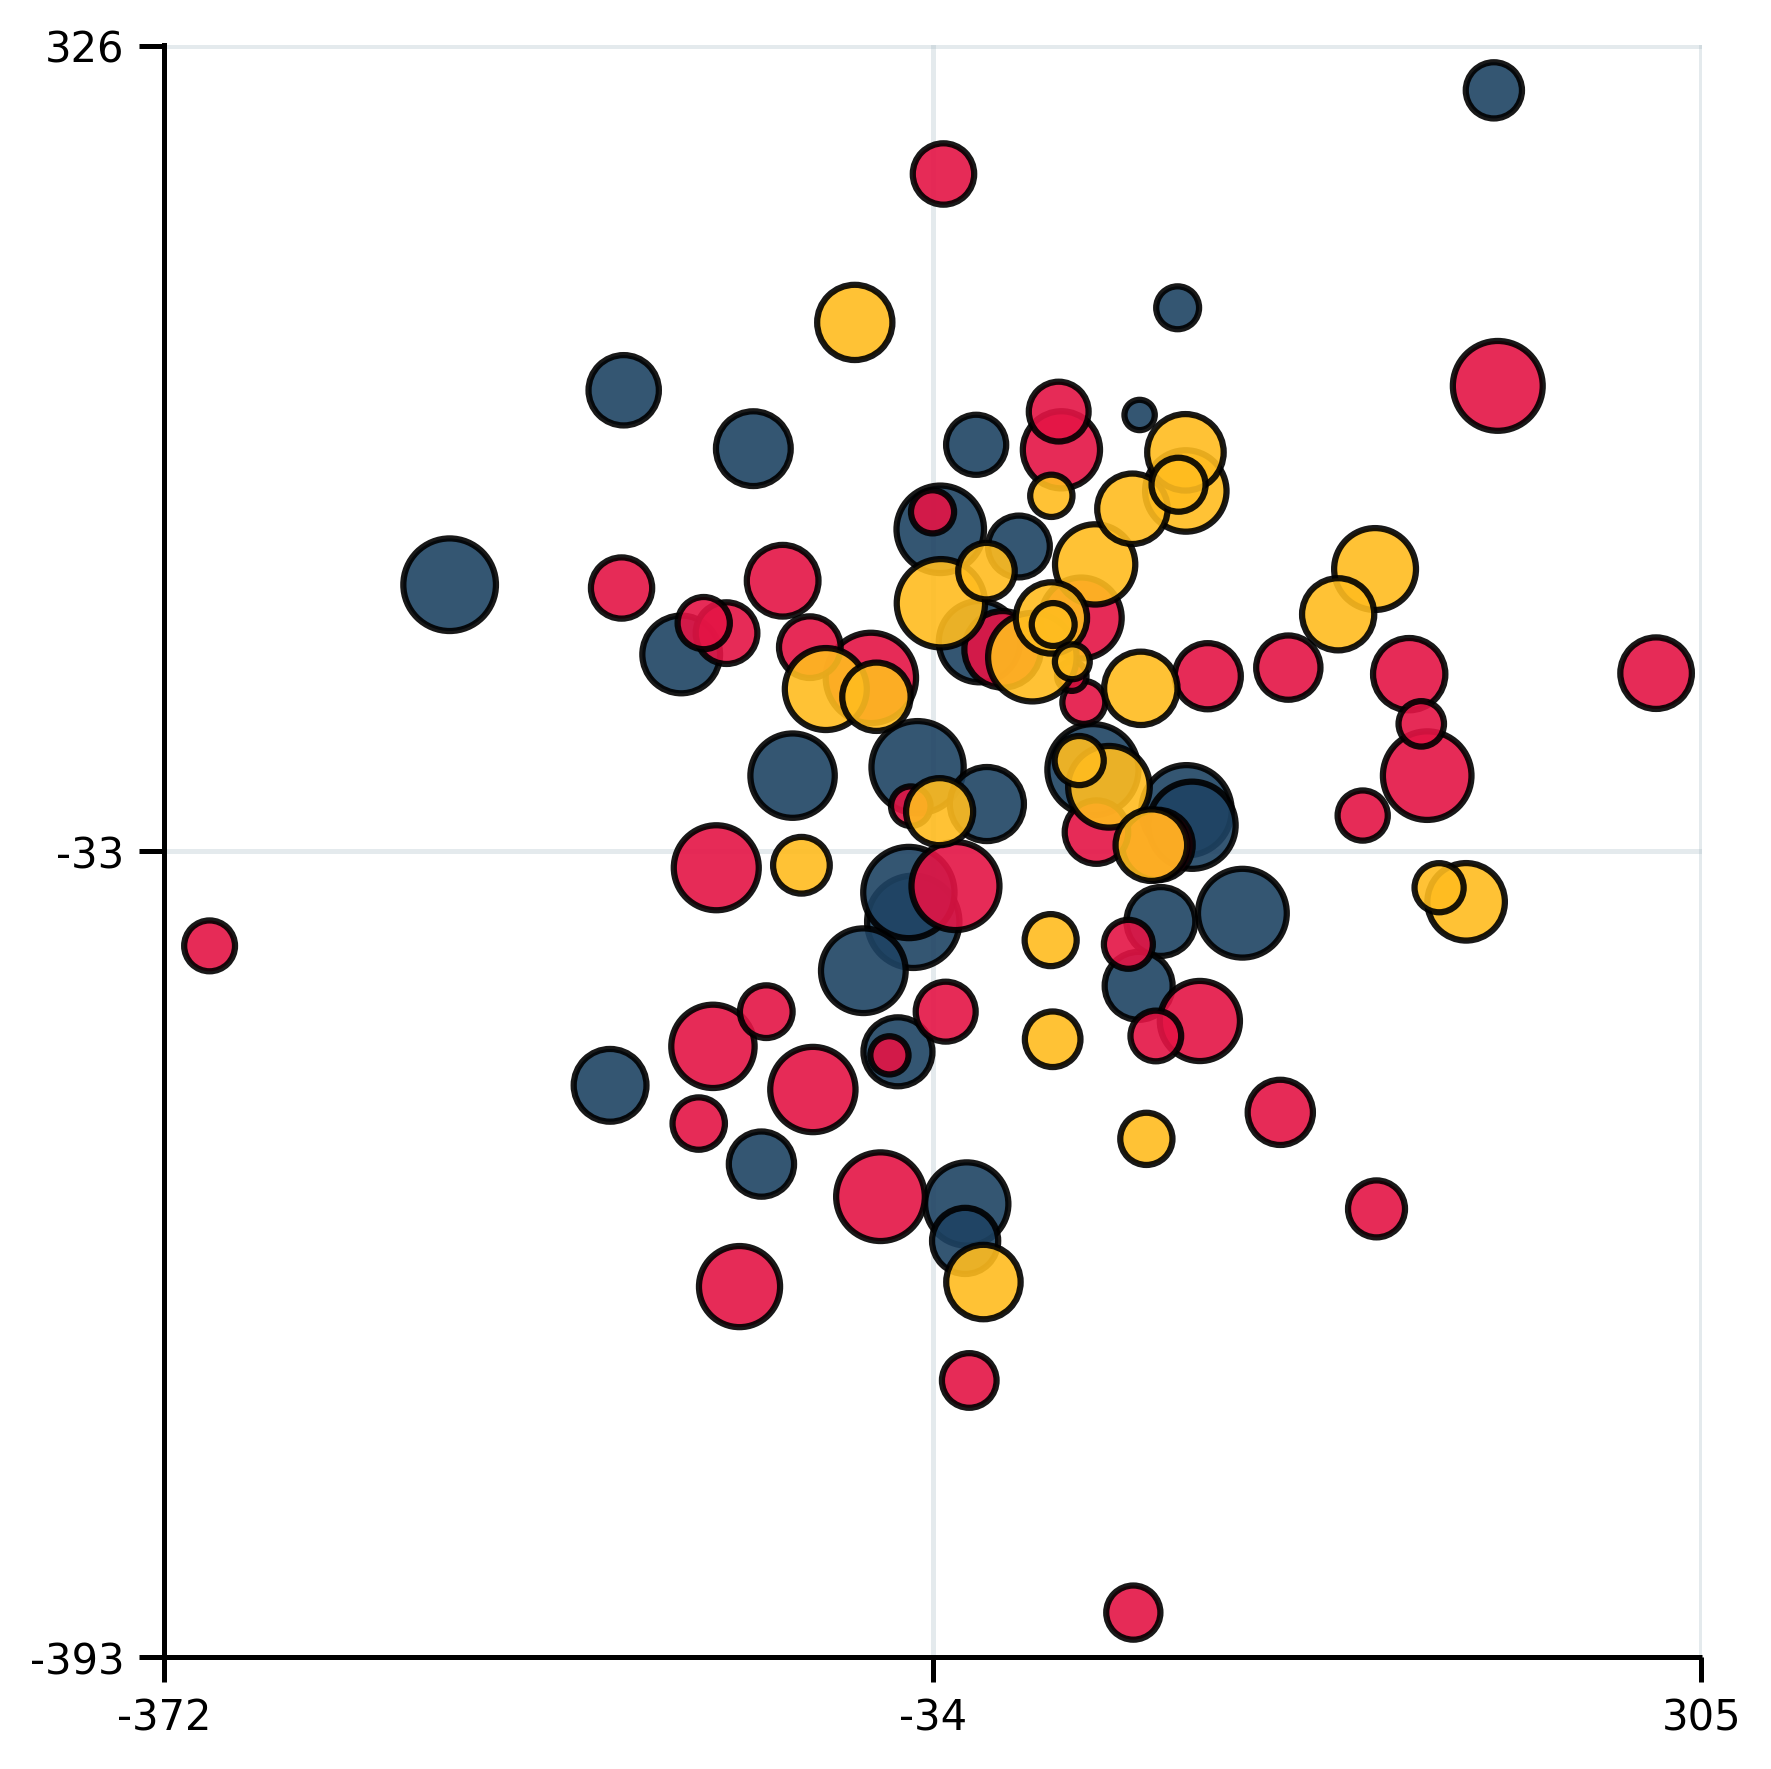
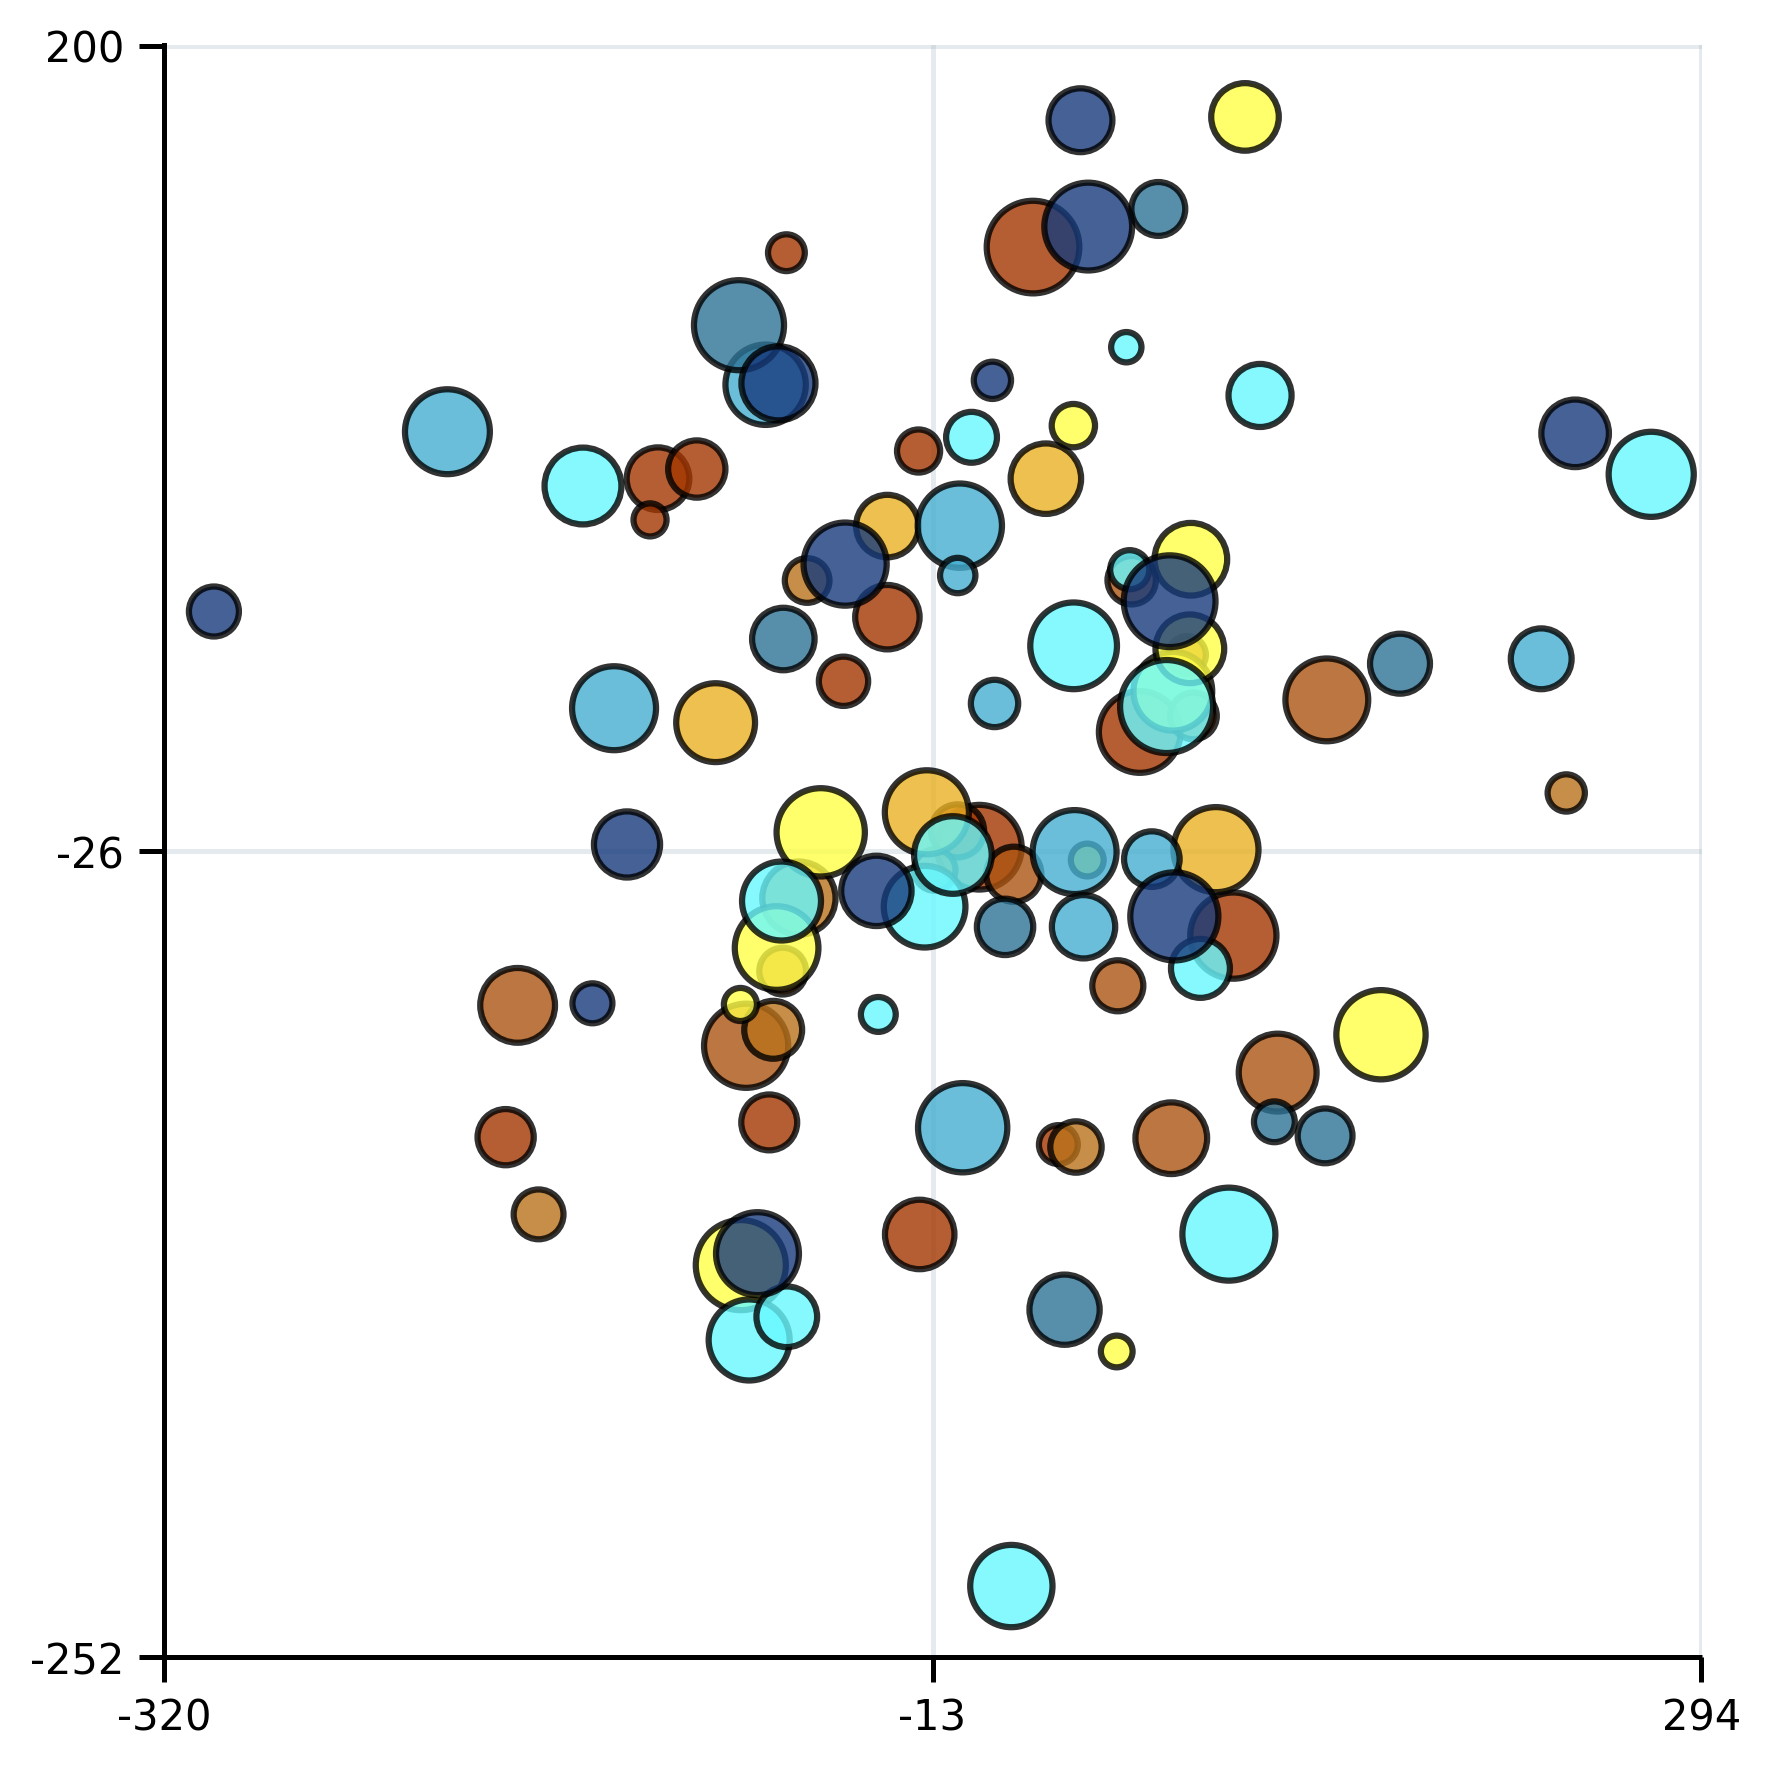
readme update

diff --git a/test_scatter.py b/test_scatter.py
@@ -4,12 +4,14 @@ from colors_set import *
 import torch
 
 Scatter_config = dict(
-    scatter_boder_color='black', scatter_alpha=0.9,
+    scatter_boder_color='black', scatter_alpha=0.8,
 )
 
 PLOT_FN = ALL_PLOT(
     figsize=(6, 6), 
-    colors=DISTINCT_3_6, artificial_darkening=0.8,
+    artificial_darkening=0.8,
+    # colors=DISTINCT_3_6, 
+    colors=ORANGE_LIGHTBLUE_10, 
     decimal_places=0,
     y_up_offset=20, y_down_offset=20,
     x_up_offset=20, x_down_offset=20,
@@ -22,32 +24,33 @@ PLOT_FN = ALL_PLOT(
 
 N_POINTS=100
 
-
 POINTS = torch.randn(N_POINTS, 2) * 100
-Labels = torch.randint(0, 3, (N_POINTS,))
+Labels = torch.randint(0, 9, (N_POINTS,))
 SIZES = torch.randint(50, 500, (N_POINTS,))
-
 ################## Normal scatter plot 
 PLOT_FN.plot(plt_type="scatter", name="Pictures/Scatter/test_scatter",
     Points=POINTS, Labels=Labels, Sizes=SIZES
 )
 
 ################## Shade y-axis regioin
-
-
-##########################################################################################
-# SWAP AXISES 
 UPDATE = dict(
-    y_ticks_allowed=True, 
     switch_off_yaxis=True,
     y_points=5,
 )
 PLOT_FN.update_params(UPDATE)
-
-
 PLOT_FN.plot(plt_type="scatter", name="Pictures/Scatter/test_scatter_shade",
     Points=POINTS, Labels=Labels, Sizes=SIZES,
     h_line_shade=[[-50, 50], [50, 300]], h_line_shade_color=DISTINCT_2_8, h_line_shade_color_alpha=0.3, line_width=1,     
+    vline_offset = 50, hline_offset = 50,
+)
+
+
+
+################## Different Shapes 
+SHAPE={0: 'o' , 1:'v', 2:'*', 3:'^', 4:'<', 5:'>', 6:'8', 7:'s', 8:'P'}
+PLOT_FN.plot(plt_type="scatter", name="Pictures/Scatter/test_scatter_shape",
+    Points=POINTS, Labels=Labels, Sizes=SIZES, Shapes=SHAPE, 
+    v_line_shade=[[-50, 50]], v_line_shade_color='black', h_line_shade_color_alpha=0.3, line_width=1,     
     vline_offset = 50, hline_offset = 50,
 )
 

diff --git a/ALL_PLOTS.py b/ALL_PLOTS.py
@@ -24,6 +24,7 @@ class ALL_PLOT:
         "bar_graph_horizontal": "bar_graph_horizontal",
         "horizontal_stacked_bar": "bar_graph_horizontal2",
         "bar_graph_horizontal2": "bar_graph_horizontal2",
+        
         "heatmap": "heatmap_plt",
         "heatmap_plt": "heatmap_plt",
         "word_cloud": "word_cloud_plt",

diff --git a/docs/line.md b/docs/line.md
@@ -49,9 +49,11 @@ plotter.plot(
 ```
 
 <p align="center">
-  <img src="../Pictures/Lines/test_lines.png" alt="Multiple lines with markers and horizontal lines" width="48%">
-  <img src="../Pictures/Lines/test_lines_h_shade.png" alt="Line plot with a horizontal shaded region" width="48%">
+  <img src="../Pictures/Lines/test_lines.png" alt="Three lines with markers and horizontal reference lines" width="40%">
 </p>
+
+This example draws three lines, adds a scatter marker at each point, and uses
+`h_lines` to add horizontal reference lines at 40 and 60.
 
 ## Reference lines and shaded regions
 
@@ -67,6 +69,9 @@ plots:
 | Scatter markers | `use_scatter=True, scatter_size=300, scatter_boder_color="black"` |
 | Swapped axes | `swap_axis=True, Y_range=X, Y_labels=X_labels` |
 
+Horizontal shading and vertical shading are separate annotations. The following
+example applies a vertical band to the x-axis:
+
 ```python
 plotter.plot(
     plt_type="line",
@@ -81,13 +86,31 @@ plotter.plot(
 ```
 
 <p align="center">
-  <img src="../Pictures/Lines/test_lines_v_shade.png" alt="Line plot with vertical shading" width="48%">
-  <img src="../Pictures/Lines/test_lines_h_shade.png" alt="Line plot with horizontal shading" width="48%">
+  <img src="../Pictures/Lines/test_lines_v_shade.png" alt="Line plot with vertical shading" width="40%">
+</p>
+
+For a band on the y-axis, use `h_line_shade`:
+
+```python
+plotter.plot(
+    plt_type="line",
+    name="Pictures/Lines/test_lines_h_shade",
+    Lines=Lines,
+    X_range=X,
+    X_labels=X_labels,
+    h_line_shade=[[40, 60]],
+    h_line_shade_color="black",
+    h_line_shade_color_alpha=0.15,
+)
+```
+
+<p align="center">
+  <img src="../Pictures/Lines/test_lines_h_shade.png" alt="Line plot with horizontal shading" width="40%">
 </p>
 
 ## Uncertainty bands
 
-Use `shade_up` and `shade_down` to draw a filled range around each line:
+Use `shade_up` and `shade_down` to draw one filled range around each line:
 
 ```python
 Shades_MAX = [(X, [line[1][i] + 20 for i in range(4)]) for line in Lines]
@@ -104,8 +127,7 @@ plotter.plot(
 ```
 
 <p align="center">
-  <img src="../Pictures/Lines/test_lines_shade.png" alt="Line plot with uncertainty bands" width="48%">
-  <img src="../Pictures/Lines/test_lines_error.png" alt="Line plot with error bars" width="48%">
+  <img src="../Pictures/Lines/test_lines_shade.png" alt="Line plot with uncertainty bands" width="40%">
 </p>
 
 ## Error bars
@@ -130,6 +152,10 @@ plotter.plot(
 )
 ```
 
+<p align="center">
+  <img src="../Pictures/Lines/test_lines_error.png" alt="Line plot with error bars" width="40%">
+</p>
+
 ## Swapped axes
 
 The same line, band, and error-bar logic can swap X and Y values:
@@ -153,12 +179,14 @@ plotter.plot(
 ```
 
 <p align="center">
-  <img src="../Pictures/Lines/test_lines_axis_swap.png" alt="Line plot with swapped axes" width="48%">
+  <img src="../Pictures/Lines/test_lines_axis_swap.png" alt="Line plot with swapped axes" width="40%">
 </p>
 
+The uncertainty-band and error-bar sections can also be swapped:
+
 <p align="center">
-  <img src="../Pictures/Lines/test_lines_shade_swap.png" alt="Swapped axes with uncertainty bands" width="48%">
-  <img src="../Pictures/Lines/test_lines_error_swap.png" alt="Swapped axes with error bars" width="48%">
+  <img src="../Pictures/Lines/test_lines_shade_swap.png" alt="Swapped axes with uncertainty bands" width="40%">
+  <img src="../Pictures/Lines/test_lines_error_swap.png" alt="Swapped axes with error bars" width="40%">
 </p>
 
 ## Colors

diff --git a/docs/scatter.md b/docs/scatter.md
@@ -7,12 +7,12 @@ plots accept 2D points, group labels, and marker sizes.
 
 ```python
 from ALL_PLOTS import ALL_PLOT
-from colors_set import DISTINCT_3_6
+from colors_set import ORANGE_LIGHTBLUE_10
 import torch
 
 plotter = ALL_PLOT(
     figsize=(6, 6),
-    colors=DISTINCT_3_6,
+    colors=ORANGE_LIGHTBLUE_10,
     artificial_darkening=0.8,
     decimal_places=0,
     y_up_offset=20,
@@ -26,7 +26,7 @@ plotter = ALL_PLOT(
 )
 
 points = torch.randn(100, 2) * 100
-labels = torch.randint(0, 3, (100,))
+labels = torch.randint(0, 9, (100,))
 sizes = torch.randint(50, 500, (100,))
 
 plotter.plot(
@@ -39,11 +39,13 @@ plotter.plot(
 ```
 
 <p align="center">
-  <img src="../Pictures/Scatter/test_scatter.png" alt="Grouped scatter plot with variable sizes" width="70%">
+  <img src="../Pictures/Scatter/test_scatter.png" alt="Scatter plot with 100 points grouped by nine integer labels and drawn at variable sizes" width="50%">
 </p>
 
-Labels are assigned colors and marker shapes. Points are sorted by size before
-drawing, so smaller markers are less likely to be hidden behind larger markers.
+The 100 points are grouped into nine integer labels. Labels are assigned colors
+from `ORANGE_LIGHTBLUE_10`, and each point uses an individual marker size.
+Points are drawn from largest to smallest so smaller markers are less likely to
+be hidden behind larger markers.
 
 ## Marker and label options
 
@@ -58,6 +60,30 @@ drawing, so smaller markers are less likely to be hidden behind larger markers.
 | `scatter_boder_color` | Marker border color |
 | `scatter_alpha` | Marker transparency |
 | `enable_relabeling` | Renumber labels for a compact label set |
+
+## Marker shapes
+
+Pass a shape dictionary to give each label its own marker:
+
+```python
+SHAPE = {
+    0: "o", 1: "v", 2: "*", 3: "^", 4: "<",
+    5: ">", 6: "8", 7: "s", 8: "P",
+}
+
+plotter.plot(
+    plt_type="scatter",
+    name="Pictures/Scatter/test_scatter_shape",
+    Points=points,
+    Labels=labels,
+    Sizes=sizes,
+    Shapes=SHAPE,
+)
+```
+
+<p align="center">
+  <img src="../Pictures/Scatter/test_scatter_shape.png" alt="Grouped scatter plot using a different marker shape for each label" width="50%">
+</p>
 
 ## Scatter plot with shaded regions
 
@@ -81,7 +107,7 @@ plotter.plot(
 ```
 
 <p align="center">
-  <img src="../Pictures/Scatter/test_scatter_shade.png" alt="Scatter plot with shaded regions" width="70%">
+  <img src="../Pictures/Scatter/test_scatter_shade.png" alt="Scatter plot with two horizontal shaded bands" width="50%">
 </p>
 
 The same annotation arguments used in [`line.md`](line.md) are available:
